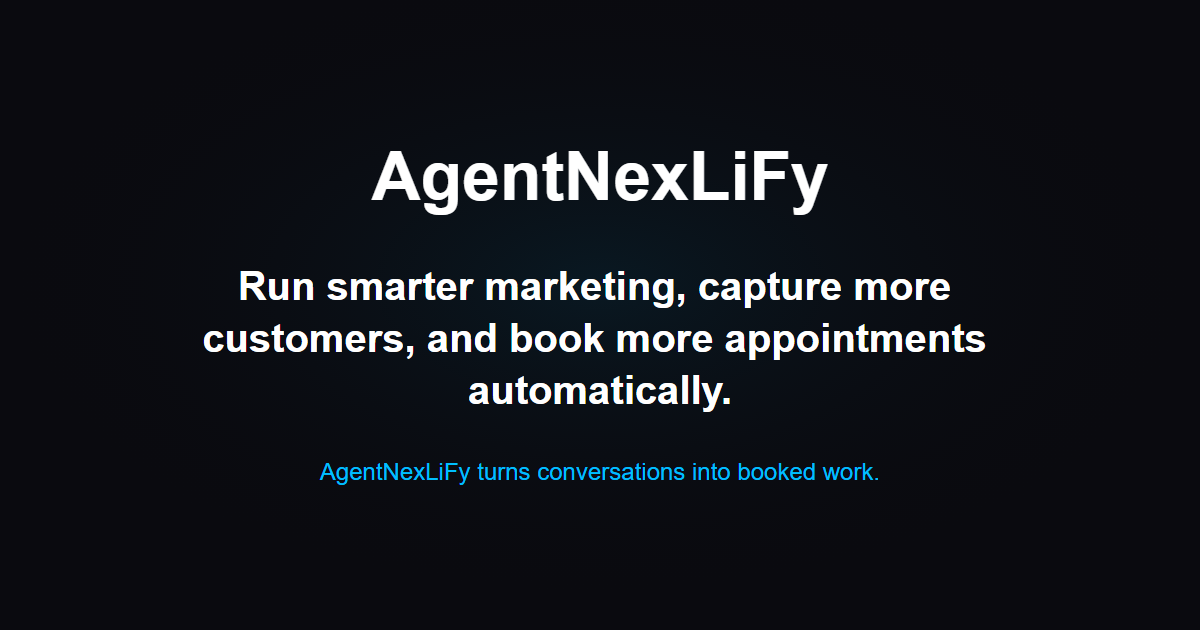
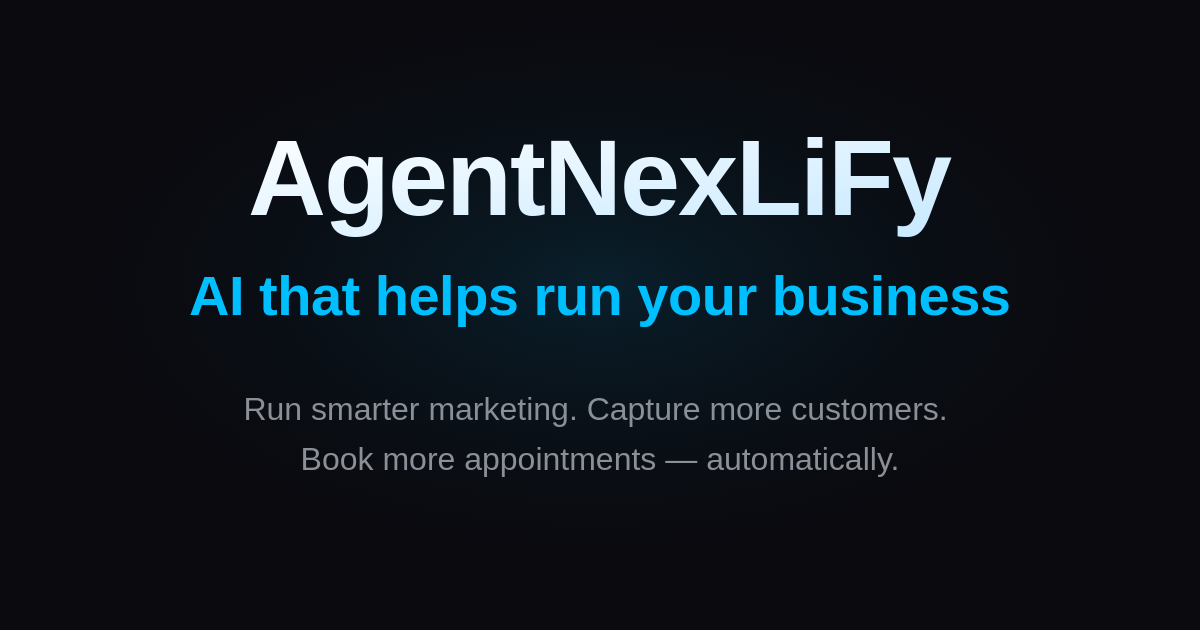
chore(meta): 3-tier OG preview — AgentNexLiFy / tagline / headline
iMessage/Slack/Twitter preview now renders:
- og:title = "AgentNexLiFy" (top line)
- og:description = "AI that helps run your business" (subtitle)
- og-image.png redrawn with 3-tier hierarchy:
    AgentNexLiFy (108px)
    AI that helps run your business (56px)
    Run smarter marketing. Capture more customers. Book more appointments — automatically. (32px)

Cache-bust: og-image.png?v=20260417b

Changed region(s): [[0.1542, 0.4222, 0.8633, 0.573], [0.2158, 0.2111, 0.8017, 0.3921], [0.185, 0.6032, 0.8017, 0.7841]]

diff --git a/frontend/index.html b/frontend/index.html
@@ -3,43 +3,31 @@
   <head>
     <meta charset="UTF-8" />
     <meta name="viewport" content="width=device-width, initial-scale=1.0" />
-    <title>
-      AgentNexLiFy | Run smarter marketing. Capture more customers. Book more
-      appointments — automatically.
-    </title>
+    <title>AgentNexLiFy | AI that helps run your business</title>
     <meta
       name="description"
-      content="Run smarter marketing. Capture more customers. Book more appointments — automatically."
+      content="AI that helps run your business — run smarter marketing, capture more customers, and book more appointments automatically."
     />
     <!-- Open Graph -->
-    <meta
-      property="og:title"
-      content="Run smarter marketing. Capture more customers. Book more appointments — automatically."
-    />
-    <meta
-      property="og:description"
-      content="Run smarter marketing. Capture more customers. Book more appointments — automatically."
-    />
+    <meta property="og:title" content="AgentNexLiFy" />
+    <meta property="og:description" content="AI that helps run your business" />
     <meta
       property="og:image"
-      content="https://app.agentnexlify.com/og-image.png?v=20260417"
+      content="https://app.agentnexlify.com/og-image.png?v=20260417b"
     />
     <meta property="og:url" content="https://www.agentnexlify.com" />
     <meta property="og:type" content="website" />
     <meta property="og:site_name" content="AgentNexLiFy" />
     <!-- Twitter Card -->
     <meta name="twitter:card" content="summary_large_image" />
-    <meta
-      name="twitter:title"
-      content="Run smarter marketing. Capture more customers. Book more appointments — automatically."
-    />
+    <meta name="twitter:title" content="AgentNexLiFy" />
     <meta
       name="twitter:description"
-      content="Run smarter marketing. Capture more customers. Book more appointments — automatically."
+      content="AI that helps run your business"
     />
     <meta
       name="twitter:image"
-      content="https://app.agentnexlify.com/og-image.png?v=20260417"
+      content="https://app.agentnexlify.com/og-image.png?v=20260417b"
     />
     <link rel="icon" type="image/svg+xml" href="/favicon.svg" />
     <link rel="icon" type="image/x-icon" href="/favicon.ico" />
